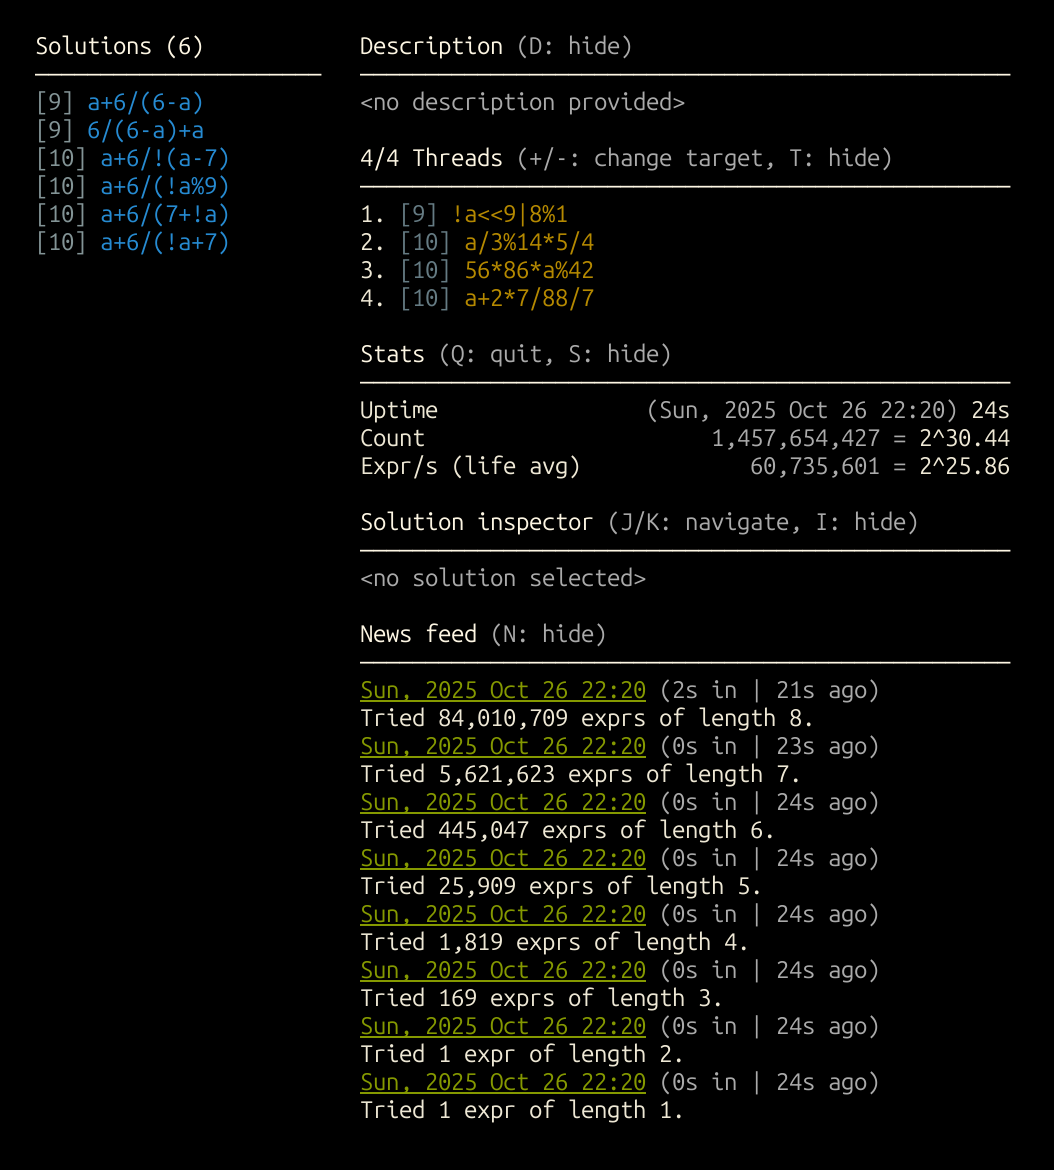
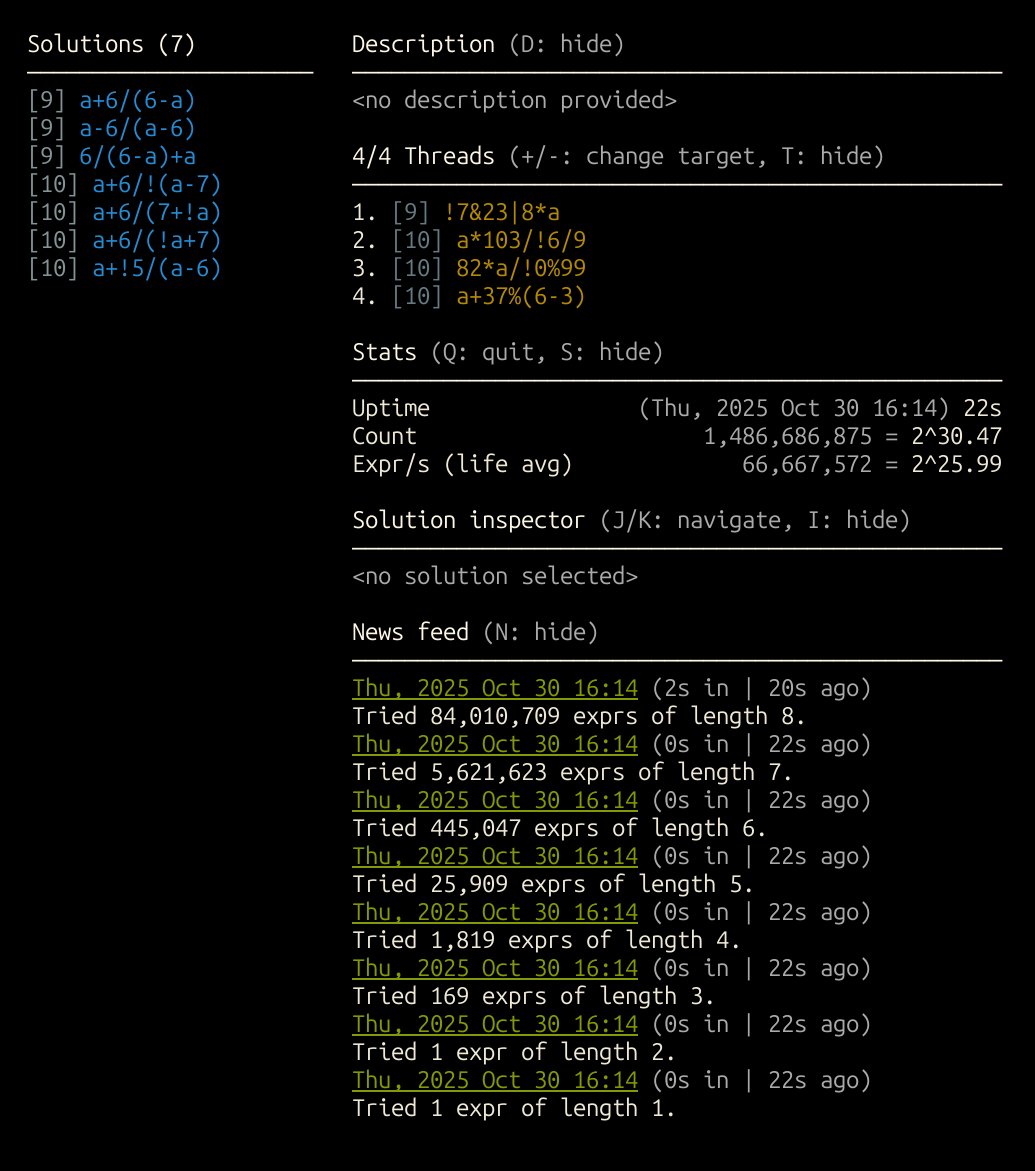
Updated demo images.

diff --git a/src/lib.rs b/src/lib.rs
@@ -1,6 +1,4 @@
 
-// TODO: Once the demo is finalized, re-take the screenshot (the type has changed since the last screenshot).
-// TODO: Finalize the second demo and make a demo bin for it.
 // TODO: Publish the new version.
 
 // For the next version:
